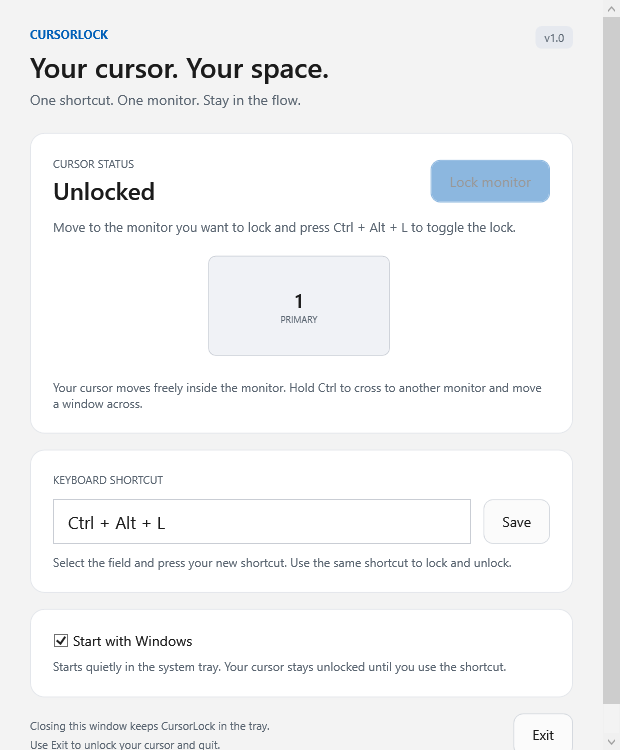
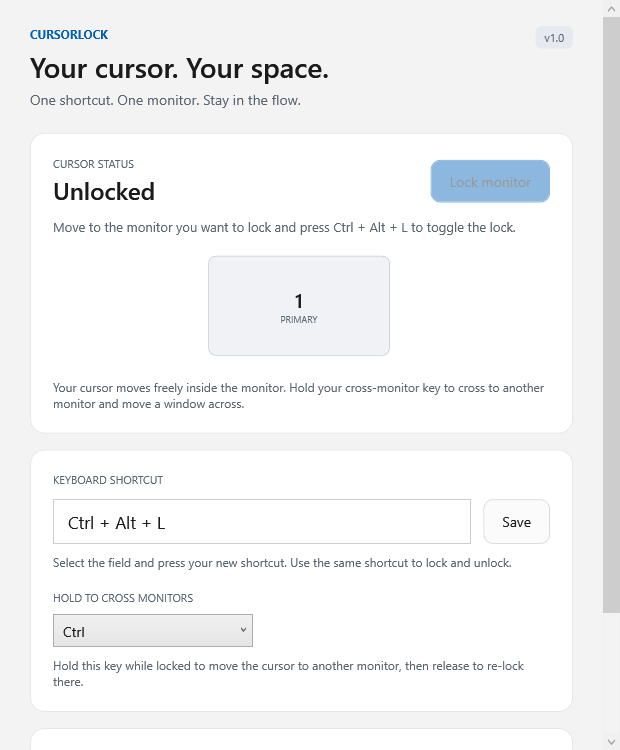
Make the cross-monitor key configurable
Add a Settings.CrossKey (Ctrl/Alt/Shift, or Off) chosen from a dropdown in
the settings window, replacing the hardcoded Ctrl. Older settings files
without the field default to Ctrl. The lock-bypass poll reads the configured
key, and status text names the chosen key.

diff --git a/src/CursorLock/MainWindow.xaml b/src/CursorLock/MainWindow.xaml
@@ -2,8 +2,8 @@
 Title="CursorLock" Width="650" Height="820" MinWidth="550" MinHeight="680" Background="#F3F3F3" Foreground="#1B1B1B" FontFamily="Segoe UI" WindowStartupLocation="CenterScreen">
 <ScrollViewer Background="#F3F3F3" VerticalScrollBarVisibility="Auto" HorizontalScrollBarVisibility="Disabled"><ScrollViewer.Resources><Style TargetType="ScrollBar"><Setter Property="Background" Value="#F3F3F3" /></Style></ScrollViewer.Resources><Grid Margin="30,26"><Grid.RowDefinitions><RowDefinition Height="Auto" /><RowDefinition Height="Auto" /><RowDefinition Height="Auto" /><RowDefinition Height="Auto" /><RowDefinition Height="Auto" /><RowDefinition Height="Auto" /></Grid.RowDefinitions>
 <Grid Margin="0,0,0,24"><StackPanel><TextBlock Text="CURSORLOCK" Foreground="{StaticResource AccentBrush}" FontSize="12" FontWeight="Bold" /><TextBlock Text="Your cursor. Your space." FontSize="28" FontWeight="SemiBold" Margin="0,6,0,5" /><TextBlock Text="One shortcut. One monitor. Stay in the flow." Foreground="{StaticResource MutedBrush}" FontSize="14" /></StackPanel><Border HorizontalAlignment="Right" VerticalAlignment="Top" Background="#E6E9EF" CornerRadius="6" Padding="9,4"><TextBlock Text="v1.0" FontSize="11" Foreground="{StaticResource MutedBrush}" /></Border></Grid>
-<Border Grid.Row="1" Style="{StaticResource Card}"><StackPanel><Grid><StackPanel><TextBlock Text="CURSOR STATUS" FontSize="11" Foreground="{StaticResource MutedBrush}" /><TextBlock x:Name="StatusText" Text="Unlocked" FontSize="24" FontWeight="SemiBold" Margin="0,4,0,0" /></StackPanel><Button x:Name="ToggleButton" Content="Lock monitor" HorizontalAlignment="Right" VerticalAlignment="Center" Background="{StaticResource AccentBrush}" BorderBrush="{StaticResource AccentBrush}" Foreground="#FFFFFF" Click="ToggleClick" /></Grid><TextBlock x:Name="StatusDescription" Margin="0,12,0,10" Foreground="{StaticResource MutedBrush}" TextWrapping="Wrap" FontSize="13" /><Canvas x:Name="MonitorCanvas" Height="125" ClipToBounds="True" SizeChanged="MonitorSizeChanged" /><TextBlock Text="Your cursor moves freely inside the monitor. Hold Ctrl to cross to another monitor and move a window across." TextWrapping="Wrap" Foreground="{StaticResource MutedBrush}" FontSize="12" Margin="0,8,0,0" /></StackPanel></Border>
-<Border Grid.Row="2" Style="{StaticResource Card}"><StackPanel><TextBlock Text="KEYBOARD SHORTCUT" FontSize="11" Foreground="{StaticResource MutedBrush}" /><Grid Margin="0,12,0,0"><Grid.ColumnDefinitions><ColumnDefinition /><ColumnDefinition Width="Auto" /></Grid.ColumnDefinitions><TextBox x:Name="HotkeyBox" IsReadOnly="True" Background="#FFFFFF" Foreground="#1B1B1B" BorderBrush="#C9CDD4" BorderThickness="1" Padding="12,10" FontSize="17" VerticalContentAlignment="Center" PreviewKeyDown="CaptureHotkey" ToolTip="Click here, then press Ctrl / Alt / Shift with a letter, number or F1–F11." AutomationProperties.Name="Keyboard shortcut" /><Button Grid.Column="1" Content="Save" Margin="12,0,0,0" Click="SaveHotkeyClick" /></Grid><TextBlock Text="Select the field and press your new shortcut. Use the same shortcut to lock and unlock." TextWrapping="Wrap" Foreground="{StaticResource MutedBrush}" FontSize="12" Margin="0,10,0,0" /></StackPanel></Border>
+<Border Grid.Row="1" Style="{StaticResource Card}"><StackPanel><Grid><StackPanel><TextBlock Text="CURSOR STATUS" FontSize="11" Foreground="{StaticResource MutedBrush}" /><TextBlock x:Name="StatusText" Text="Unlocked" FontSize="24" FontWeight="SemiBold" Margin="0,4,0,0" /></StackPanel><Button x:Name="ToggleButton" Content="Lock monitor" HorizontalAlignment="Right" VerticalAlignment="Center" Background="{StaticResource AccentBrush}" BorderBrush="{StaticResource AccentBrush}" Foreground="#FFFFFF" Click="ToggleClick" /></Grid><TextBlock x:Name="StatusDescription" Margin="0,12,0,10" Foreground="{StaticResource MutedBrush}" TextWrapping="Wrap" FontSize="13" /><Canvas x:Name="MonitorCanvas" Height="125" ClipToBounds="True" SizeChanged="MonitorSizeChanged" /><TextBlock Text="Your cursor moves freely inside the monitor. Hold your cross-monitor key to cross to another monitor and move a window across." TextWrapping="Wrap" Foreground="{StaticResource MutedBrush}" FontSize="12" Margin="0,8,0,0" /></StackPanel></Border>
+<Border Grid.Row="2" Style="{StaticResource Card}"><StackPanel><TextBlock Text="KEYBOARD SHORTCUT" FontSize="11" Foreground="{StaticResource MutedBrush}" /><Grid Margin="0,12,0,0"><Grid.ColumnDefinitions><ColumnDefinition /><ColumnDefinition Width="Auto" /></Grid.ColumnDefinitions><TextBox x:Name="HotkeyBox" IsReadOnly="True" Background="#FFFFFF" Foreground="#1B1B1B" BorderBrush="#C9CDD4" BorderThickness="1" Padding="12,10" FontSize="17" VerticalContentAlignment="Center" PreviewKeyDown="CaptureHotkey" ToolTip="Click here, then press Ctrl / Alt / Shift with a letter, number or F1–F11." AutomationProperties.Name="Keyboard shortcut" /><Button Grid.Column="1" Content="Save" Margin="12,0,0,0" Click="SaveHotkeyClick" /></Grid><TextBlock Text="Select the field and press your new shortcut. Use the same shortcut to lock and unlock." TextWrapping="Wrap" Foreground="{StaticResource MutedBrush}" FontSize="12" Margin="0,10,0,0" /><TextBlock Text="HOLD TO CROSS MONITORS" FontSize="11" Foreground="{StaticResource MutedBrush}" Margin="0,20,0,0" /><ComboBox x:Name="CrossKeyBox" Margin="0,10,0,0" Width="200" HorizontalAlignment="Left" FontSize="14" Padding="10,7" SelectionChanged="CrossKeyChanged"><ComboBoxItem Content="Ctrl" Tag="17" /><ComboBoxItem Content="Alt" Tag="18" /><ComboBoxItem Content="Shift" Tag="16" /><ComboBoxItem Content="Off" Tag="0" /></ComboBox><TextBlock Text="Hold this key while locked to move the cursor to another monitor, then release to re-lock there." TextWrapping="Wrap" Foreground="{StaticResource MutedBrush}" FontSize="12" Margin="0,10,0,0" /></StackPanel></Border>
 <Border Grid.Row="3" Style="{StaticResource Card}"><StackPanel><CheckBox x:Name="StartupCheck" Content="Start with Windows" Click="StartupClick" /><TextBlock Text="Starts quietly in the system tray. Your cursor stays unlocked until you use the shortcut." Foreground="{StaticResource MutedBrush}" TextWrapping="Wrap" FontSize="12" Margin="0,9,0,0" /></StackPanel></Border>
 <TextBlock Grid.Row="4" x:Name="FeedbackText" TextWrapping="Wrap" FontSize="13" Margin="0,0,0,14" Visibility="Collapsed" />
 <Grid Grid.Row="5"><StackPanel VerticalAlignment="Center"><TextBlock Text="Closing this window keeps CursorLock in the tray." Foreground="{StaticResource MutedBrush}" FontSize="11" /><TextBlock Text="Use Exit to unlock your cursor and quit." Foreground="{StaticResource MutedBrush}" FontSize="11" Margin="0,4,0,0" /></StackPanel><Button Content="Exit" HorizontalAlignment="Right" Click="ExitClick" /></Grid>

diff --git a/src/CursorLock/MainWindow.xaml.cs b/src/CursorLock/MainWindow.xaml.cs
@@ -12,12 +12,14 @@ public partial class MainWindow : Window
 {
     private readonly App app;
     private Hotkey proposed;
+    private bool loadingUi;
     internal MainWindow(App app)
     {
         InitializeComponent();
         this.app = app;
         proposed = app.Preferences.Hotkey;
         HotkeyBox.Text = proposed.ToString();
+        SelectCrossKey(app.Preferences.CrossKey);
         app.StateChanged += RefreshState;
         using var icon = TrayIconFactory.Create(false);
         Icon = Imaging.CreateBitmapSourceFromHIcon(icon.Handle, Int32Rect.Empty, System.Windows.Media.Imaging.BitmapSizeOptions.FromEmptyOptions());
@@ -29,7 +31,10 @@ public partial class MainWindow : Window
         bool locked = app.Cursor.IsLocked;
         StatusText.Text = locked ? "Locked to monitor" : "Unlocked";
         StatusText.Foreground = new SolidColorBrush(locked ? Color.FromRgb(0, 95, 184) : Color.FromRgb(27, 27, 27));
-        StatusDescription.Text = locked ? "Press " + app.Preferences.Hotkey + " to toggle the lock. Hold Ctrl to cross to another monitor." : "Move to the monitor you want to lock and press " + app.Preferences.Hotkey + " to toggle the lock.";
+        string? cross = CrossKeyName(app.Preferences.CrossKey);
+        StatusDescription.Text = locked
+            ? "Press " + app.Preferences.Hotkey + " to toggle the lock." + (cross is null ? "" : " Hold " + cross + " to cross to another monitor.")
+            : "Move to the monitor you want to lock and press " + app.Preferences.Hotkey + " to toggle the lock.";
         ToggleButton.Content = locked ? "Unlock" : "Lock monitor";
         ToggleButton.IsEnabled = app.CanToggle;
         StartupCheck.IsChecked = StartupRegistration.IsEnabled;
@@ -63,6 +68,21 @@ public partial class MainWindow : Window
     {
         try { app.SetHotkey(proposed); ShowFeedback("Shortcut saved: " + proposed, false); }
         catch (Exception error) { ShowFeedback(error.Message, true); }
+    }
+    private static string? CrossKeyName(int virtualKey) => virtualKey switch { 0x11 => "Ctrl", 0x12 => "Alt", 0x10 => "Shift", _ => null };
+    private void SelectCrossKey(int virtualKey)
+    {
+        loadingUi = true;
+        foreach (ComboBoxItem item in CrossKeyBox.Items)
+            if (item.Tag is string tag && int.TryParse(tag, out int value) && value == virtualKey) { CrossKeyBox.SelectedItem = item; break; }
+        if (CrossKeyBox.SelectedItem is null) CrossKeyBox.SelectedIndex = 0;
+        loadingUi = false;
+    }
+    private void CrossKeyChanged(object sender, SelectionChangedEventArgs e)
+    {
+        if (loadingUi || app is null) return;
+        if (CrossKeyBox.SelectedItem is ComboBoxItem item && item.Tag is string tag && int.TryParse(tag, out int value))
+            app.SetCrossKey(value);
     }
     private void ToggleClick(object sender, RoutedEventArgs e) => app.ToggleLock();
     private void StartupClick(object sender, RoutedEventArgs e) => app.SetStartup(StartupCheck.IsChecked == true);

diff --git a/src/CursorLock/Settings.cs b/src/CursorLock/Settings.cs
@@ -17,16 +17,21 @@ internal sealed record Hotkey(uint Modifiers, uint VirtualKey)
         return value + KeyInterop.KeyFromVirtualKey((int)VirtualKey);
     }
 }
-internal sealed record Settings(Hotkey Hotkey)
+// CrossKey is the virtual-key held to temporarily lift the lock so the cursor
+// can cross to another monitor: Ctrl (0x11), Alt (0x12), Shift (0x10), or 0 to
+// disable the feature. Defaults to Ctrl; absent in older settings files.
+internal sealed record Settings(Hotkey Hotkey, int CrossKey = 0x11)
 {
     internal static readonly string DirectoryPath = Path.Combine(Environment.GetFolderPath(Environment.SpecialFolder.LocalApplicationData), "CursorLock");
     private static string FilePath(string? directory) => Path.Combine(directory ?? DirectoryPath, "settings.json");
+    public static bool IsValidCrossKey(int key) => key is 0 or 0x10 or 0x11 or 0x12;
     public static Settings Load(string? directory = null)
     {
         try
         {
             var settings = JsonSerializer.Deserialize<Settings>(File.ReadAllText(FilePath(directory)));
-            if (settings?.Hotkey is { IsValid: true }) return settings;
+            if (settings?.Hotkey is { IsValid: true })
+                return IsValidCrossKey(settings.CrossKey) ? settings : settings with { CrossKey = 0x11 };
         }
         catch (Exception e) when (e is IOException or UnauthorizedAccessException or JsonException) { }
         return new Settings(Hotkey.Default);

diff --git a/src/CursorLock/App.xaml.cs b/src/CursorLock/App.xaml.cs
@@ -69,7 +69,7 @@ public partial class App : Application
             SystemEvents.PowerModeChanged += PowerChanged;
             // A short interval so holding Ctrl to cross monitors feels immediate.
             ownershipTimer = new DispatcherTimer { Interval = TimeSpan.FromMilliseconds(30) };
-            ownershipTimer.Tick += (_, _) => Cursor.Tick();
+            ownershipTimer.Tick += (_, _) => Cursor.Tick(Preferences.CrossKey);
             try { hotkeys.Set(Preferences.Hotkey); }
             catch (Win32Exception error)
             {
@@ -138,6 +138,18 @@ public partial class App : Application
             throw;
         }
         UpdateState();
+    }
+
+    internal void SetCrossKey(int virtualKey)
+    {
+        if (!Settings.IsValidCrossKey(virtualKey)) return;
+        try
+        {
+            var next = Preferences with { CrossKey = virtualKey };
+            next.Save();
+            Preferences = next;
+        }
+        catch (Exception error) { ReportError("Could not save the cross-monitor key: " + error.Message); }
     }
 
     internal void SetStartup(bool enabled)

diff --git a/src/CursorLock/CursorLockService.cs b/src/CursorLock/CursorLockService.cs
@@ -45,11 +45,11 @@ internal sealed class CursorLockService
     // Called frequently while locked. Holding Ctrl lifts the clip so the cursor
     // can move to another monitor; releasing Ctrl re-locks to whichever monitor
     // the cursor now sits on. Otherwise it behaves like CheckOwnership.
-    public void Tick()
+    public void Tick(int crossKey)
     {
         if (!IsLocked) return;
-        bool ctrl = (NativeMethods.GetAsyncKeyState(NativeMethods.VkControl) & 0x8000) != 0;
-        if (ctrl)
+        bool held = crossKey != 0 && (NativeMethods.GetAsyncKeyState(crossKey) & 0x8000) != 0;
+        if (held)
         {
             if (!bypassing)
             {

diff --git a/src/CursorLock/NativeMethods.cs b/src/CursorLock/NativeMethods.cs
@@ -5,7 +5,7 @@ internal static class NativeMethods
 {
     internal const int WmHotkey = 0x0312, WmDisplayChange = 0x007E;
     internal const uint ModNoRepeat = 0x4000;
-    internal const int VkControl = 0x11;
+    internal const int VkShift = 0x10, VkControl = 0x11, VkMenu = 0x12;
     [DllImport("user32.dll")]
     internal static extern short GetAsyncKeyState(int vKey);
     [StructLayout(LayoutKind.Sequential)]

diff --git a/README.md b/README.md
@@ -2,7 +2,7 @@
 
 A small Windows tray app that keeps your cursor on the monitor you are using.
 
-**Ctrl + Alt + L** locks your cursor to its current monitor. Press it again to unlock. The cursor moves normally inside the monitor, including its taskbar. While locked, hold **Ctrl** to let the cursor cross to another monitor — handy for dragging a window across. Release Ctrl and the lock follows to the monitor the cursor is on.
+**Ctrl + Alt + L** locks your cursor to its current monitor. Press it again to unlock. The cursor moves normally inside the monitor, including its taskbar. While locked, hold your **cross-monitor key** (Ctrl by default; choose Ctrl, Alt, Shift or Off in Settings) to let the cursor cross to another monitor — handy for dragging a window across. Release the key and the lock follows to the monitor the cursor is on.
 
 ## Install and use
 

diff --git a/RELEASE_NOTES.md b/RELEASE_NOTES.md
@@ -2,7 +2,7 @@
 
 - Lock the cursor to the current monitor with Ctrl + Alt + L; press again to unlock.
 - Configurable global shortcut with conflict handling.
-- Hold Ctrl while locked to cross to another monitor and carry a window across.
+- Hold your cross-monitor key (Ctrl by default; configurable) while locked to cross to another monitor and carry a window across.
 - English light settings window with a live monitor layout.
 - Tray controls and optional Windows autostart.
 - Per-user installer and portable Windows x64 package with the runtime included.
